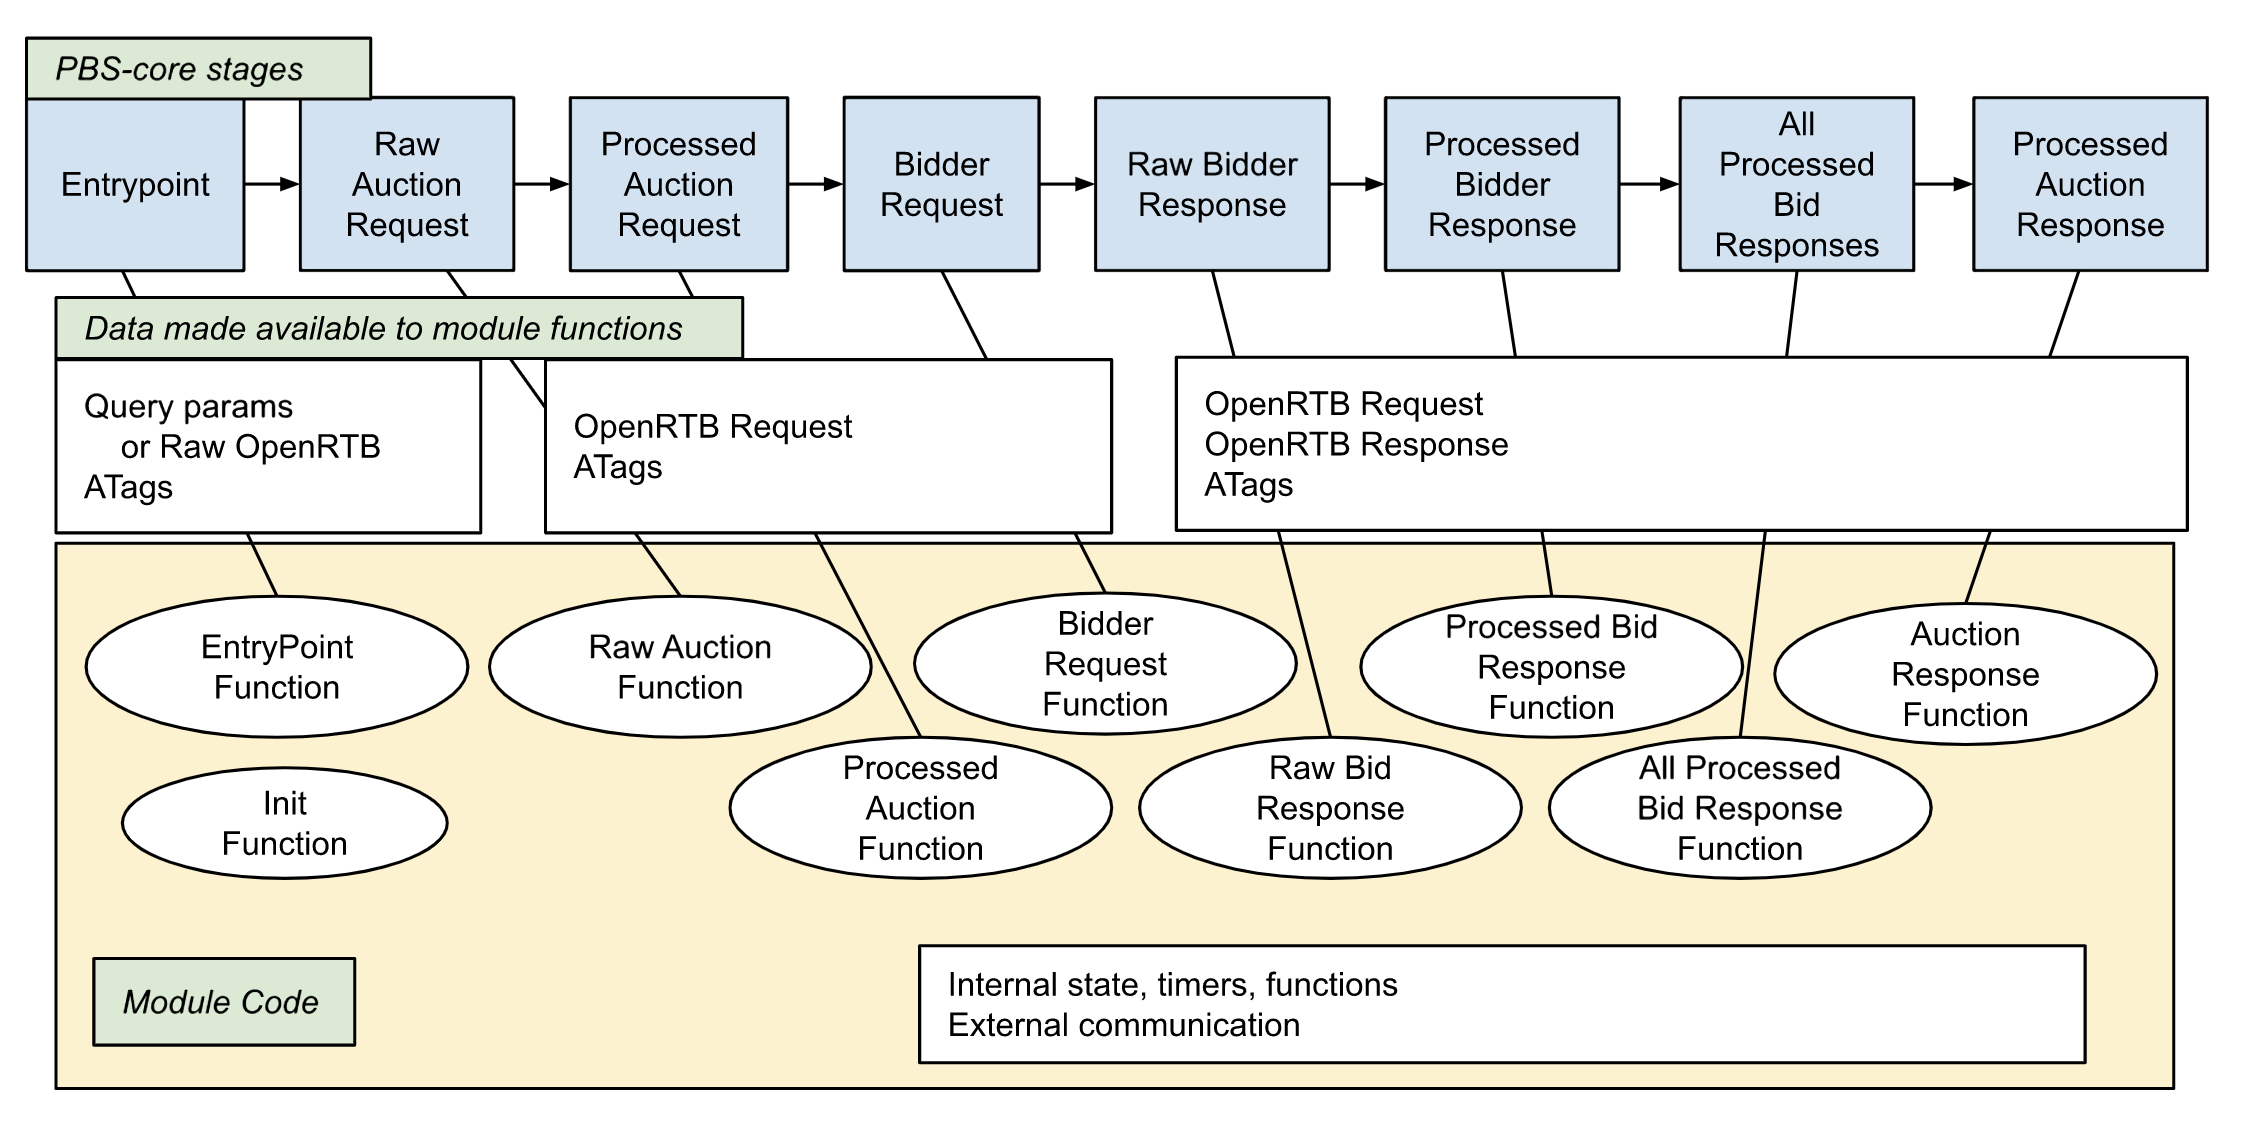
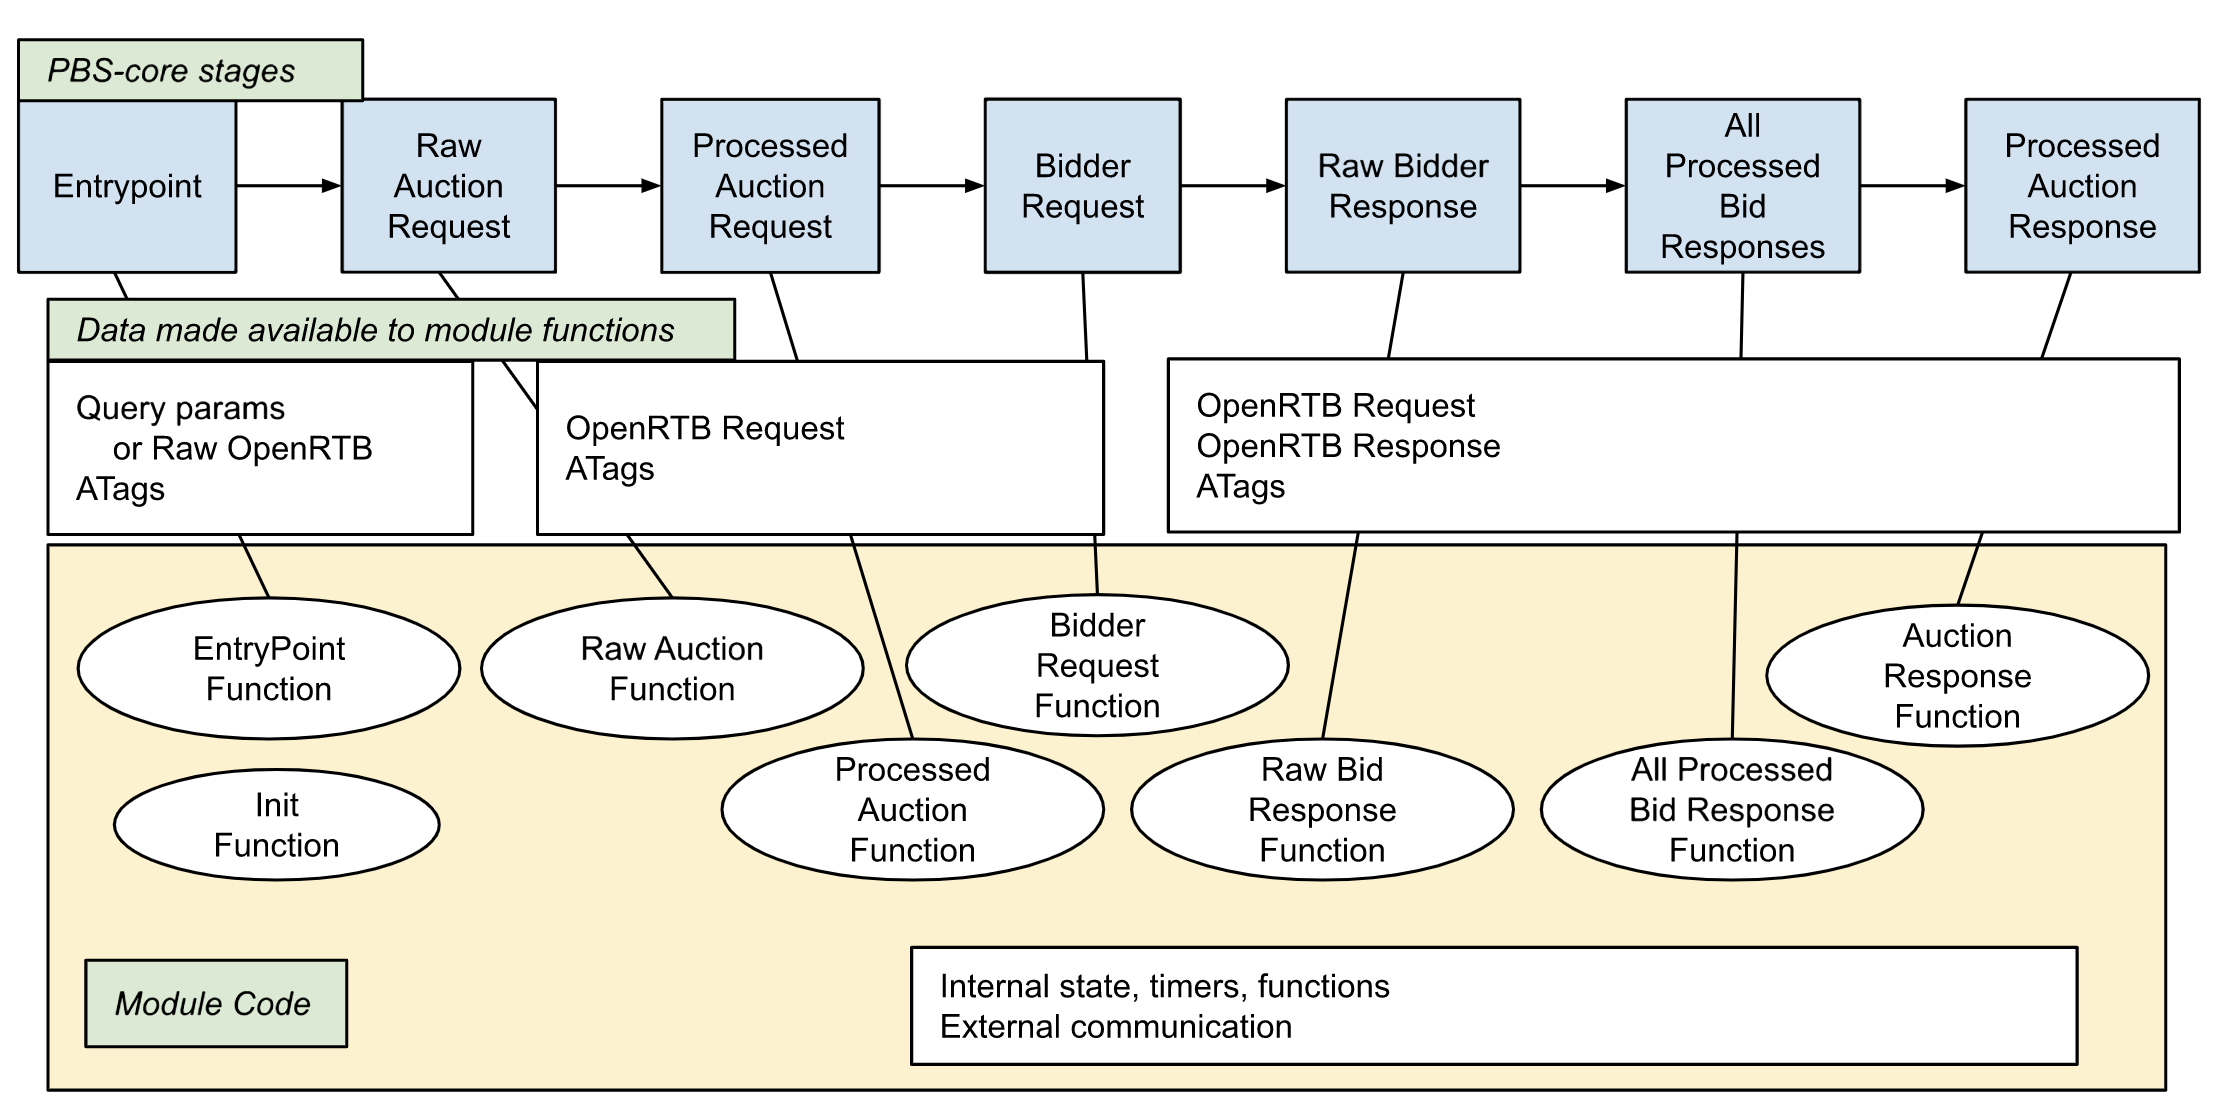
removed deprecated PBS module hook

Changed region(s): [[0.0, 0.0312, 0.9955, 1.0]]

diff --git a/prebid-server/developers/add-a-module.md b/prebid-server/developers/add-a-module.md
@@ -74,8 +74,7 @@ Here's a description of the Stages of a PBS request that modules can tap into fo
 | Processed Auction Request | Any stored requests have been merged in and all PBS enrichments are done | auction, amp, video | Inject First Party Data, Channel determination, Bid floors, Bidder optimization |
 | Bidder Request | The request has been customized for a particular bidder in the auction | auction, amp, video | Bidder-specific bcat/badv, Bidder-specific deals |
 | Raw Bidder Response | Hook functions can get access to the unprocessed bidder response | auction, amp, video | Response validations |
-| Processed Bidder Response | PBS has done its own validations on an individual bidder's response | auction, amp, video | Advanced CPM adjustments, Custom VAST macros |
-| All Processed Bid Responses | All bids are back and PBS-core bid validations are done. | auction, amp, video | Creative validation, advanced bid validations. (PBS-Java 1.97+) |
+| All Processed Bid Responses | All bids are back and PBS-core bid validations are done. | auction, amp, video | Creative validation, advanced bid validations. |
 | Auction Response | Last step before the response goes back to the client | auction, amp, video | Inject ad server targeting, alternate auction winner logic |
 
 ### 3. Figure Out Which Stages You're Going to Hook Into

diff --git a/prebid-server/developers/add-a-module-java.md b/prebid-server/developers/add-a-module-java.md
@@ -118,7 +118,7 @@ These are the available hooks that can be implemented in a module:
 - org.prebid.server.hooks.v1.auction.ProcessedAuctionRequestHook
 - org.prebid.server.hooks.v1.bidder.BidderRequestHook
 - org.prebid.server.hooks.v1.bidder.RawBidderResponseHook
-- org.prebid.server.hooks.v1.bidder.ProcessedBidderResponseHook
+- org.prebid.server.hooks.v1.bidder.AllProcessedBidResponsesHook
 - org.prebid.server.hooks.v1.auction.AuctionResponseHook
 
 In a module it is not necessary to implement all mentioned interfaces but only one (or several) required by your functionality.
